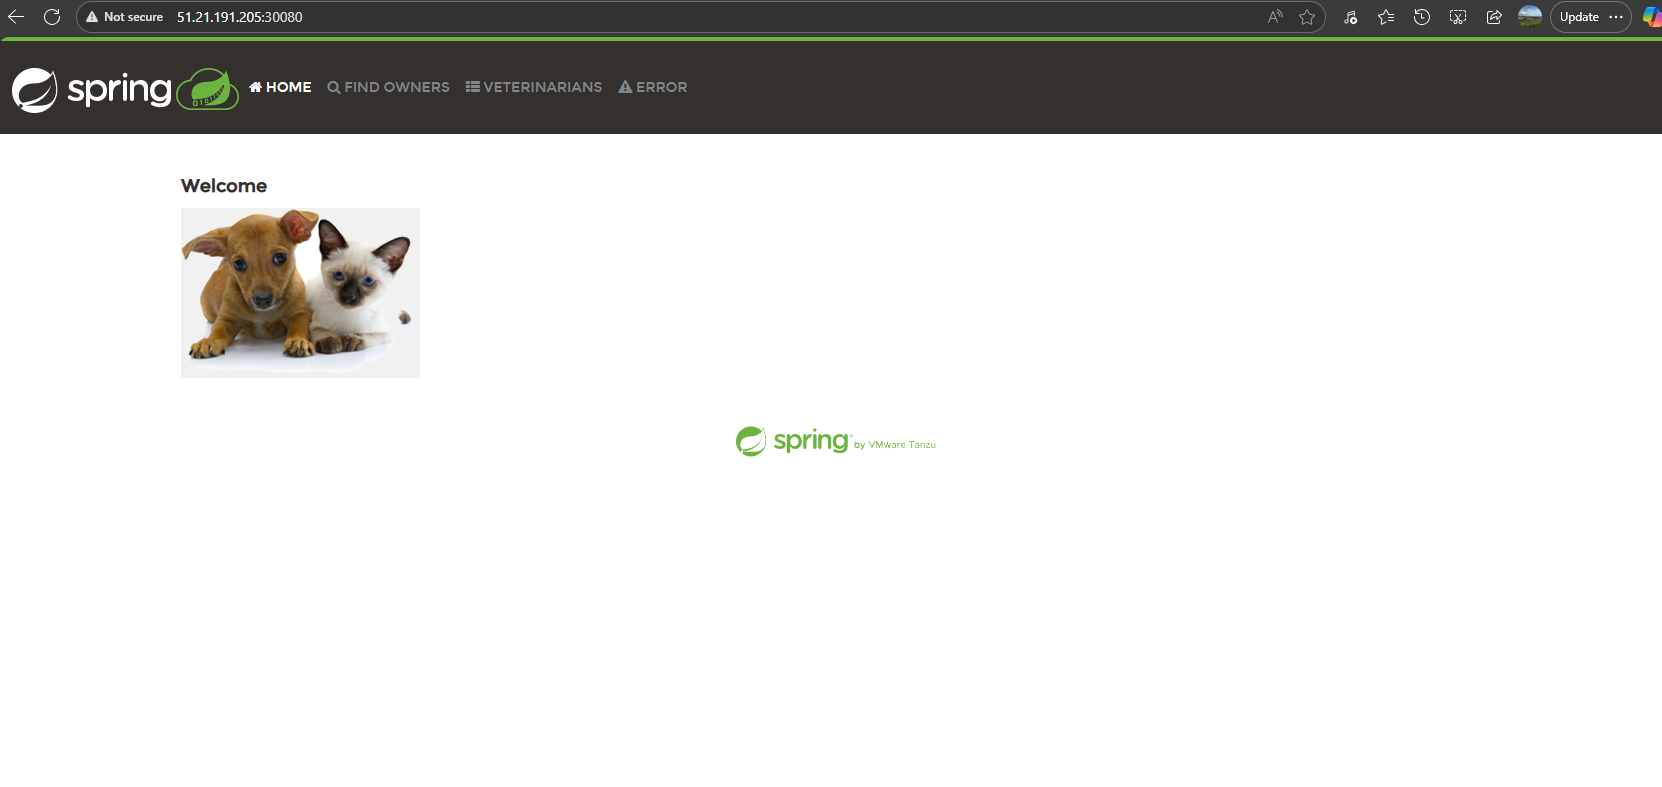
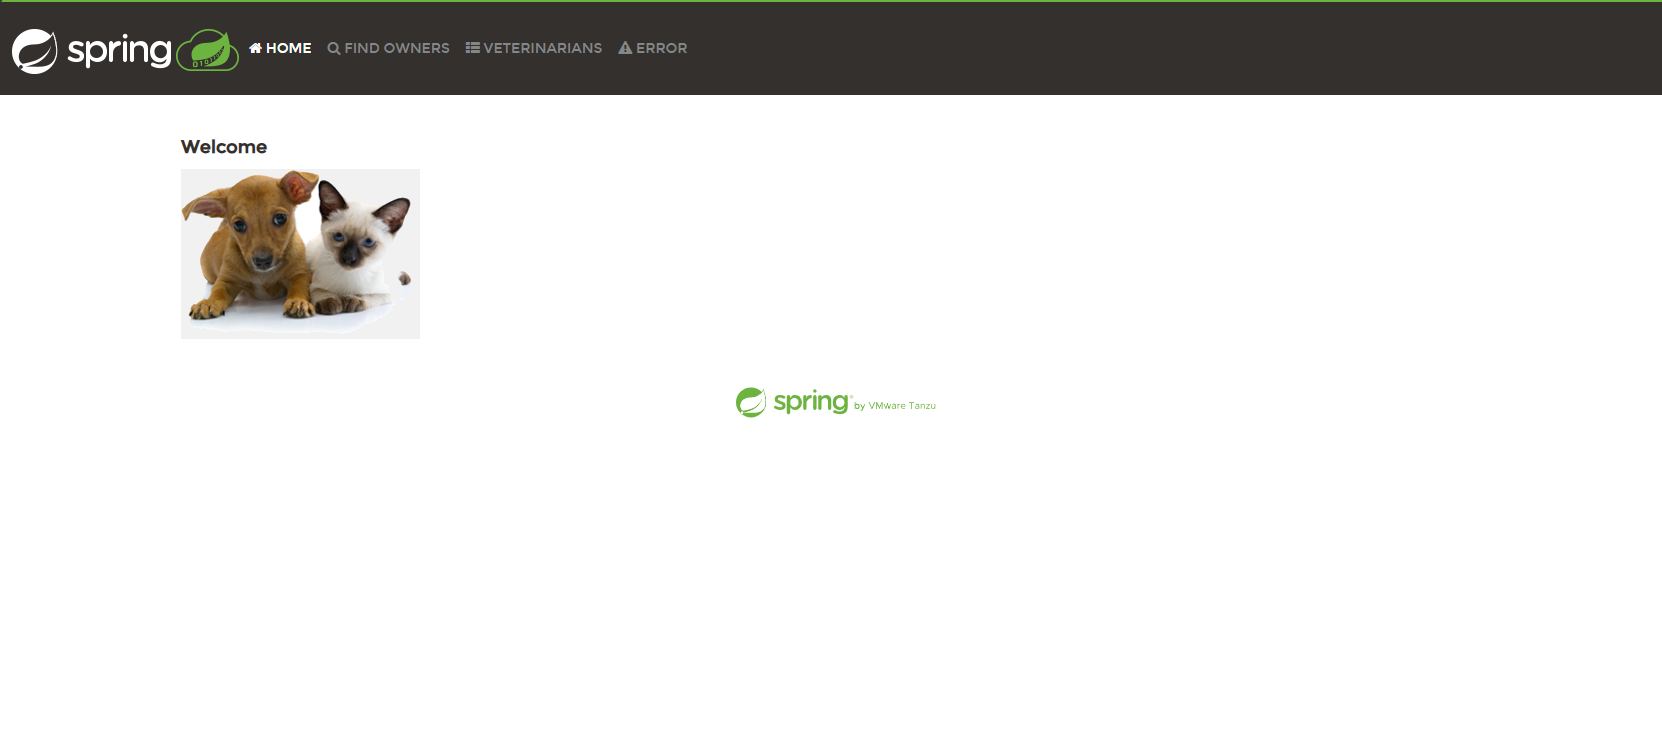
docs: update project structure in README and app-running

Changed region(s): [[0.0, 0.0, 1.0, 0.4612], [0.4296, 0.5227, 0.5523, 0.5842]]

diff --git a/README.md b/README.md
@@ -114,17 +114,36 @@ http://petclinic.local
 ```
 petclinic-kubernetes/
 ├── README.md
-├── docs/
-│   ├── architecture.md
-│   └── screenshots/
 ├── docker/
-│   └── Dockerfile
+│ └── Dockerfile
+├── docs/
+│ ├── architecture.md
+│ ├── architecture.svg
+│ ├── deployment-guide.md
+│ └── screenshots/
+│ ├── app-running.png
+│ ├── monitoring-pods.png
+│ ├── monitoring-workload-status.png
+│ └── pods-list.png
 ├── kubernetes/
-│   ├── namespace.yaml
-│   ├── mysql/
-│   ├── petclinic/
-│   └── ingress/
-└── scripts/
+│ ├── namespace.yaml
+│ ├── ingress/
+│ │ └── petclinic-ingress.yaml
+│ ├── mysql/
+│ │ ├── mysql-pvc.yaml
+│ │ ├── mysql-secret.yaml
+│ │ ├── mysql-service.yaml
+│ │ └── mysql-statefulset.yaml
+│ └── petclinic/
+│ ├── petclinic-configmap.yaml
+│ ├── petclinic-deployment.yaml
+│ ├── petclinic-hpa.yaml
+│ └── petclinic-service.yaml
+├── scripts/
+│ ├── build.sh
+│ ├── cleanup.sh
+│ ├── deploy.sh
+│ └── restart-minikube.sh
 ```
 
 ---
